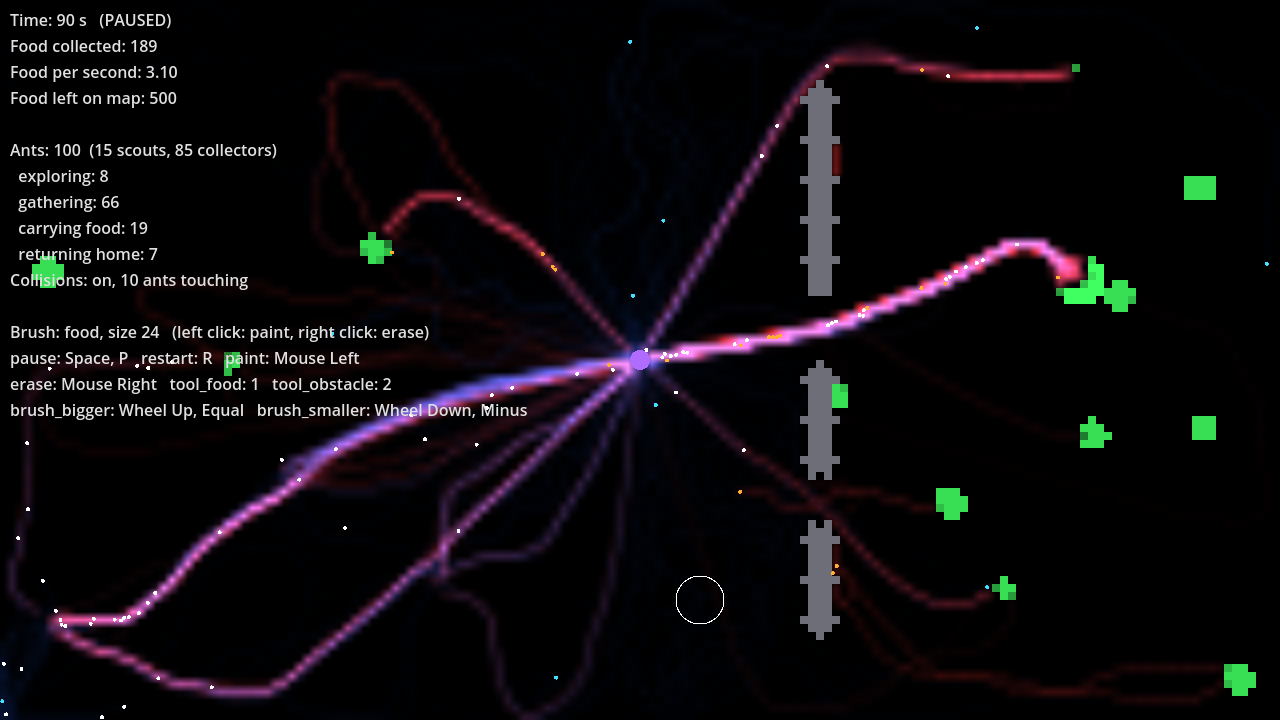
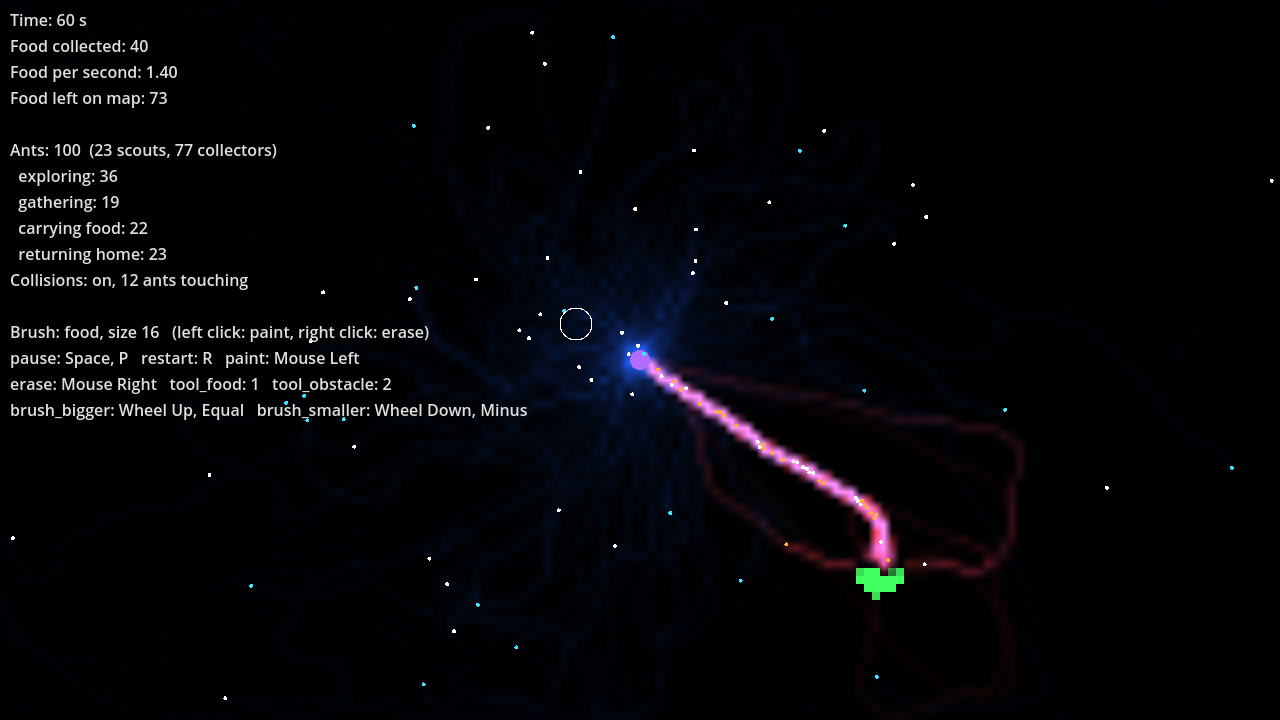
Start with a single food blob instead of random food piles
Claude-Session: https://claude.ai/code/session_01U91HAFVKbeBjaCWM2Qyx5h

diff --git a/REQUEST_LOG.md b/REQUEST_LOG.md
@@ -4,6 +4,35 @@ Newest first. Each entry: date, request (verbatim), what was done, commits.
 
 ---
 
+## #10 — 2026-10-20
+
+**Request:**
+> stop spawning food randomly. Just start with a single blob of food half screen away, drawinf in the rest will be enough
+
+**Done:**
+- Removed random food spawning. The game starts with one round blob of food (~140 units,
+  24 px radius) 320 px from the nest (halfway to the left/right screen edge), in a random
+  direction. Distance, direction, size and food per cell are in `[food]`.
+- Tested: blob found and ~40 food delivered in the first minute.
+
+**Commits:** _(filled in below once committed)_
+
+---
+
+## #9 — 2026-10-20
+
+**Request:**
+> what if I installed de .net version?
+
+**Done:**
+- Question only, answered in chat: the .NET version also runs GDScript projects like this one;
+  the .NET SDK is only needed for C# scripts. (A live test was started, then stopped by the
+  user before running.) No code change.
+
+**Commits:** none (logged together with request #10)
+
+---
+
 ## #8 — 2026-10-20
 
 **Request:**
